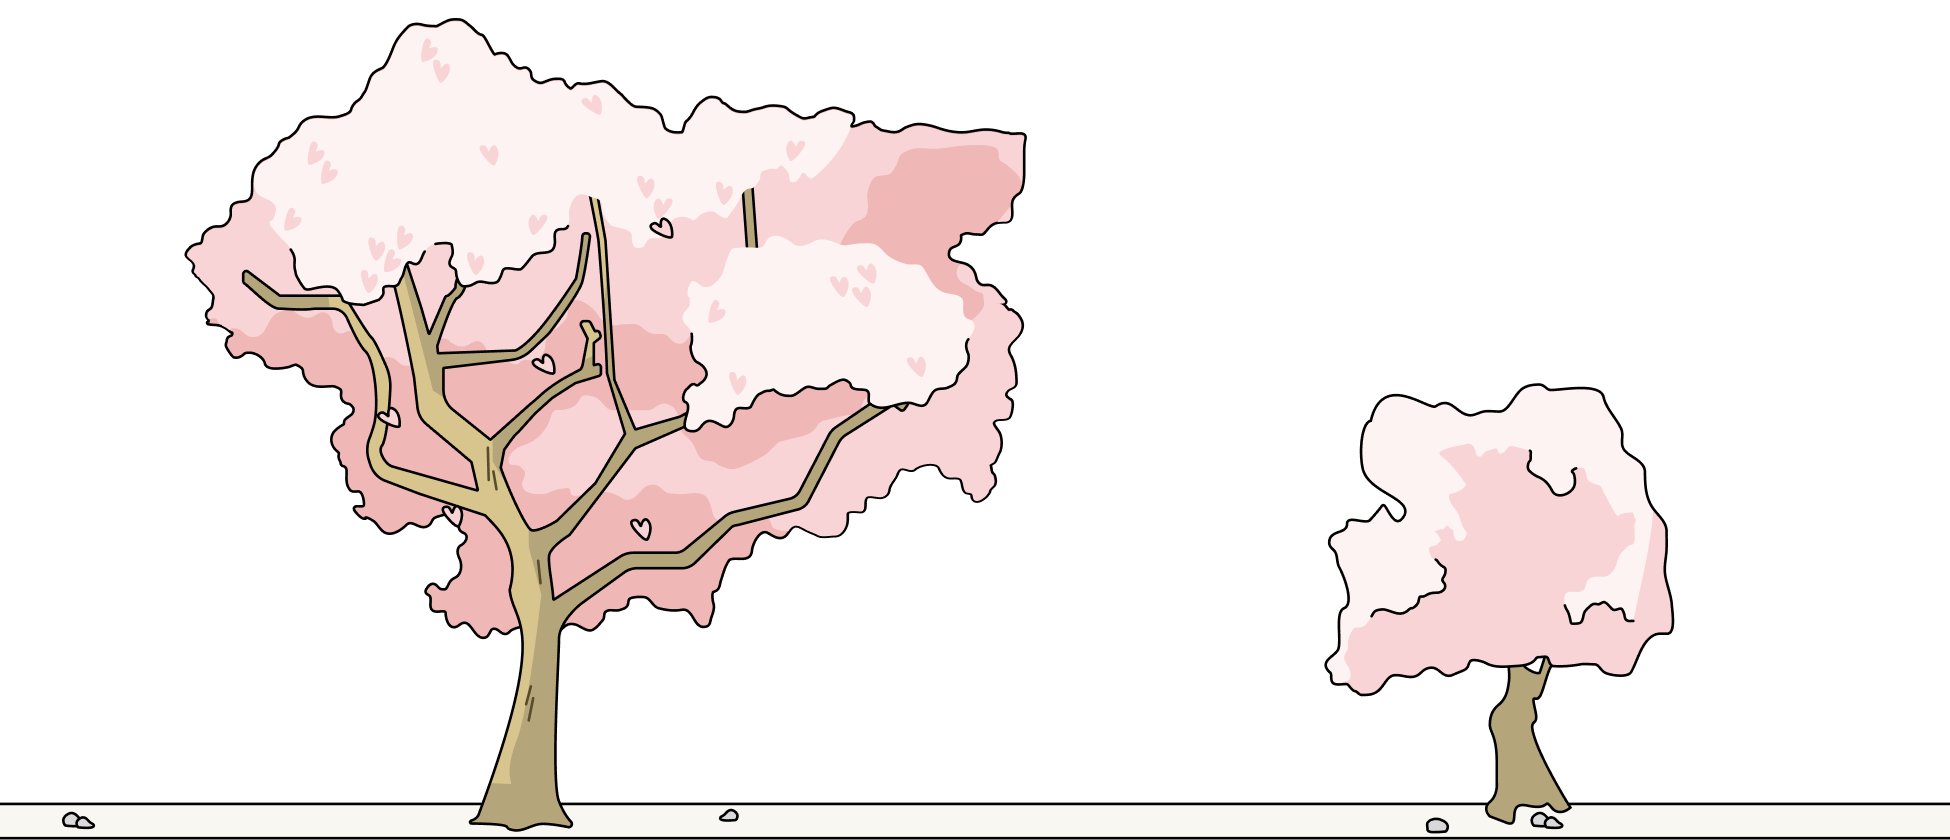
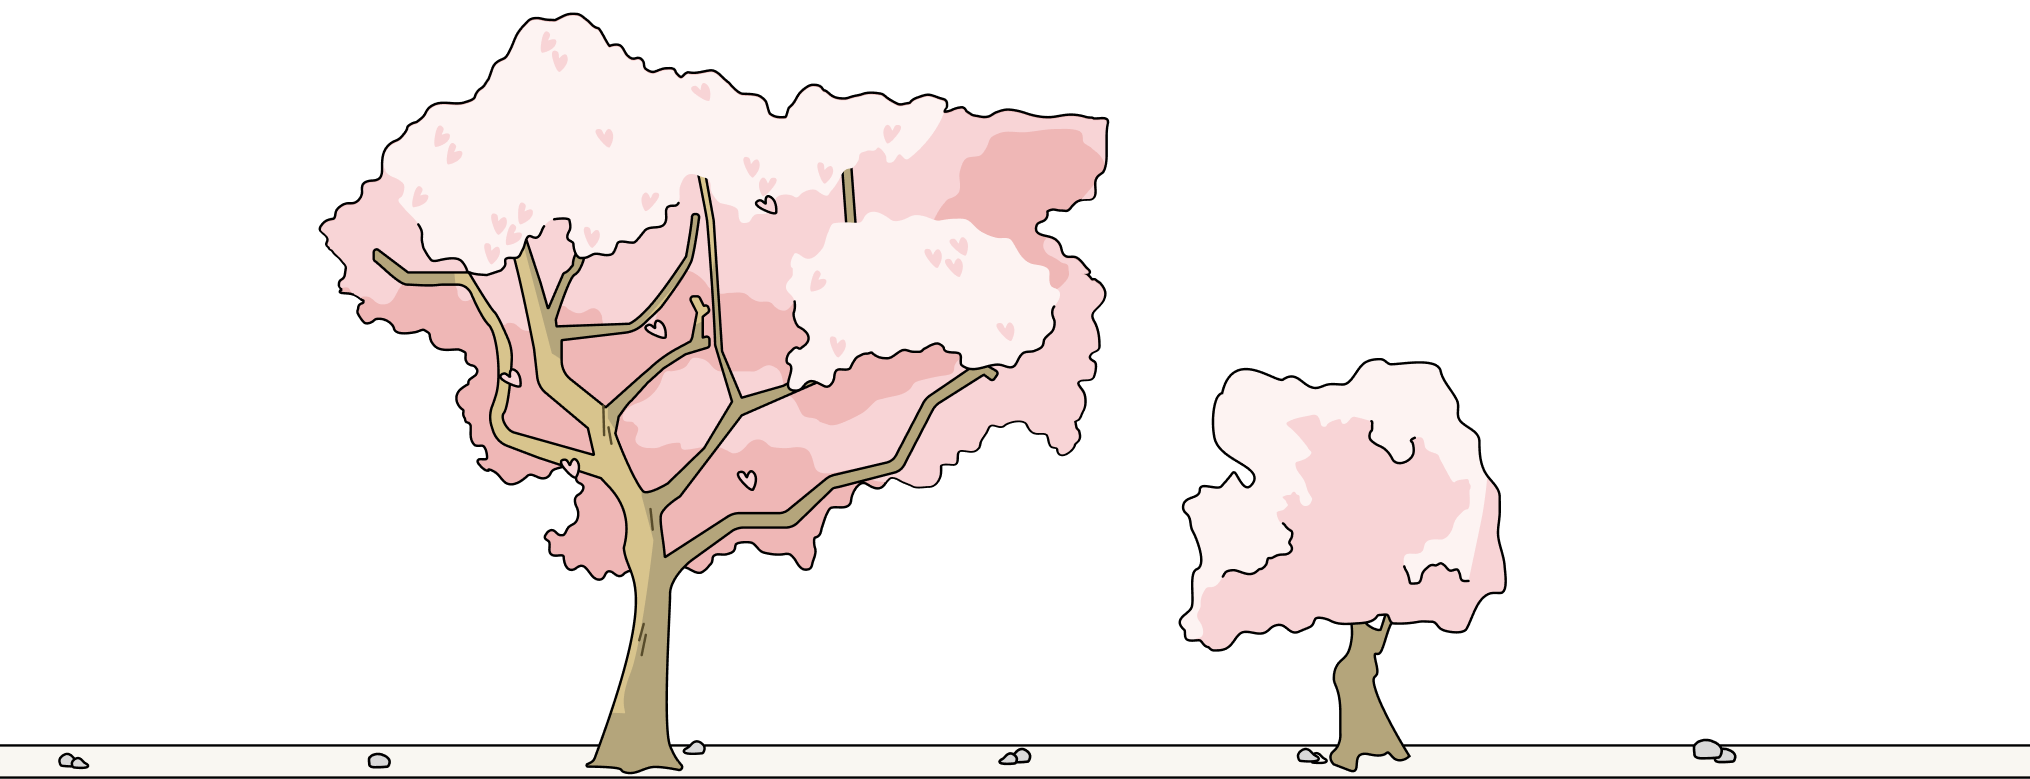
added_bg_movement

diff --git a/index.html b/index.html
@@ -122,7 +122,7 @@
               p.pos.x += velX * dt();
               p.pos.y += velY * dt();
               p.angle += velA * dt();
-              velX += windVelocity * dt(); // Increase velX by the wind velocity
+              velX += windVelocity * dt() * rand(1, 10); // Increase velX by the wind velocity
 
               velX *= airDrag;
               velY *= airDrag;
@@ -150,31 +150,83 @@
           z(1),
         ]);
 
-        add([
+        const trees1 = add([
           sprite('trees', { width: width() }),
           area(),
           anchor('botleft'),
-          pos(0, height() - height() * 0.084),
+          pos(-100, height() - height() * 0.084),
           {
             isBackground: true, // Add a custom flag to identify background objects
           },
-
           z(0),
           scale(1.4),
+          move(LEFT, SPEED),
         ]);
 
-        add([
+        const trees2 = add([
+          sprite('trees', { width: width() }),
+          area(),
+          anchor('botleft'),
+          pos(trees1.width - 100, height() - height() * 0.084),
+          {
+            isBackground: true, // Add a custom flag to identify background objects
+          },
+          z(0),
+          scale(1.4),
+          move(LEFT, SPEED),
+        ]);
+
+        loop(0.05, () => {
+          respawnTrees();
+        });
+
+        function respawnTrees() {
+          if (trees1.pos.x < 0 - trees1.width - 100) {
+            console.log('Ты где');
+            trees1.pos.x = -100;
+            trees2.pos.x = trees1.width - 100;
+          }
+        }
+
+        const hills = add([
           sprite('hills', { width: width() }),
           area(),
-          pos(-100, height() - height() * 0.084),
+          pos(0, height() - height() * 0.1),
 
           {
             isBackground: true,
           },
-          scale(2),
+          scale(1),
           anchor('botleft'),
           z(-1),
+          move(LEFT, 120),
         ]);
+
+        const hills2 = add([
+          sprite('hills', { width: width() }),
+          area(),
+          pos(hills.width, height() - height() * 0.1),
+
+          {
+            isBackground: true,
+          },
+          scale(1),
+          anchor('botleft'),
+          z(-1),
+          move(LEFT, 120),
+        ]);
+
+        function respawnHills() {
+          if (hills.pos.x < 0 - hills.width) {
+            console.log('Ты где');
+            hills.pos.x = 0;
+            hills2.pos.x = hills2.width;
+          }
+        }
+
+        loop(0.05, () => {
+          respawnHills();
+        });
 
         const clouds = add([
           sprite('clouds', { width: width() }),
